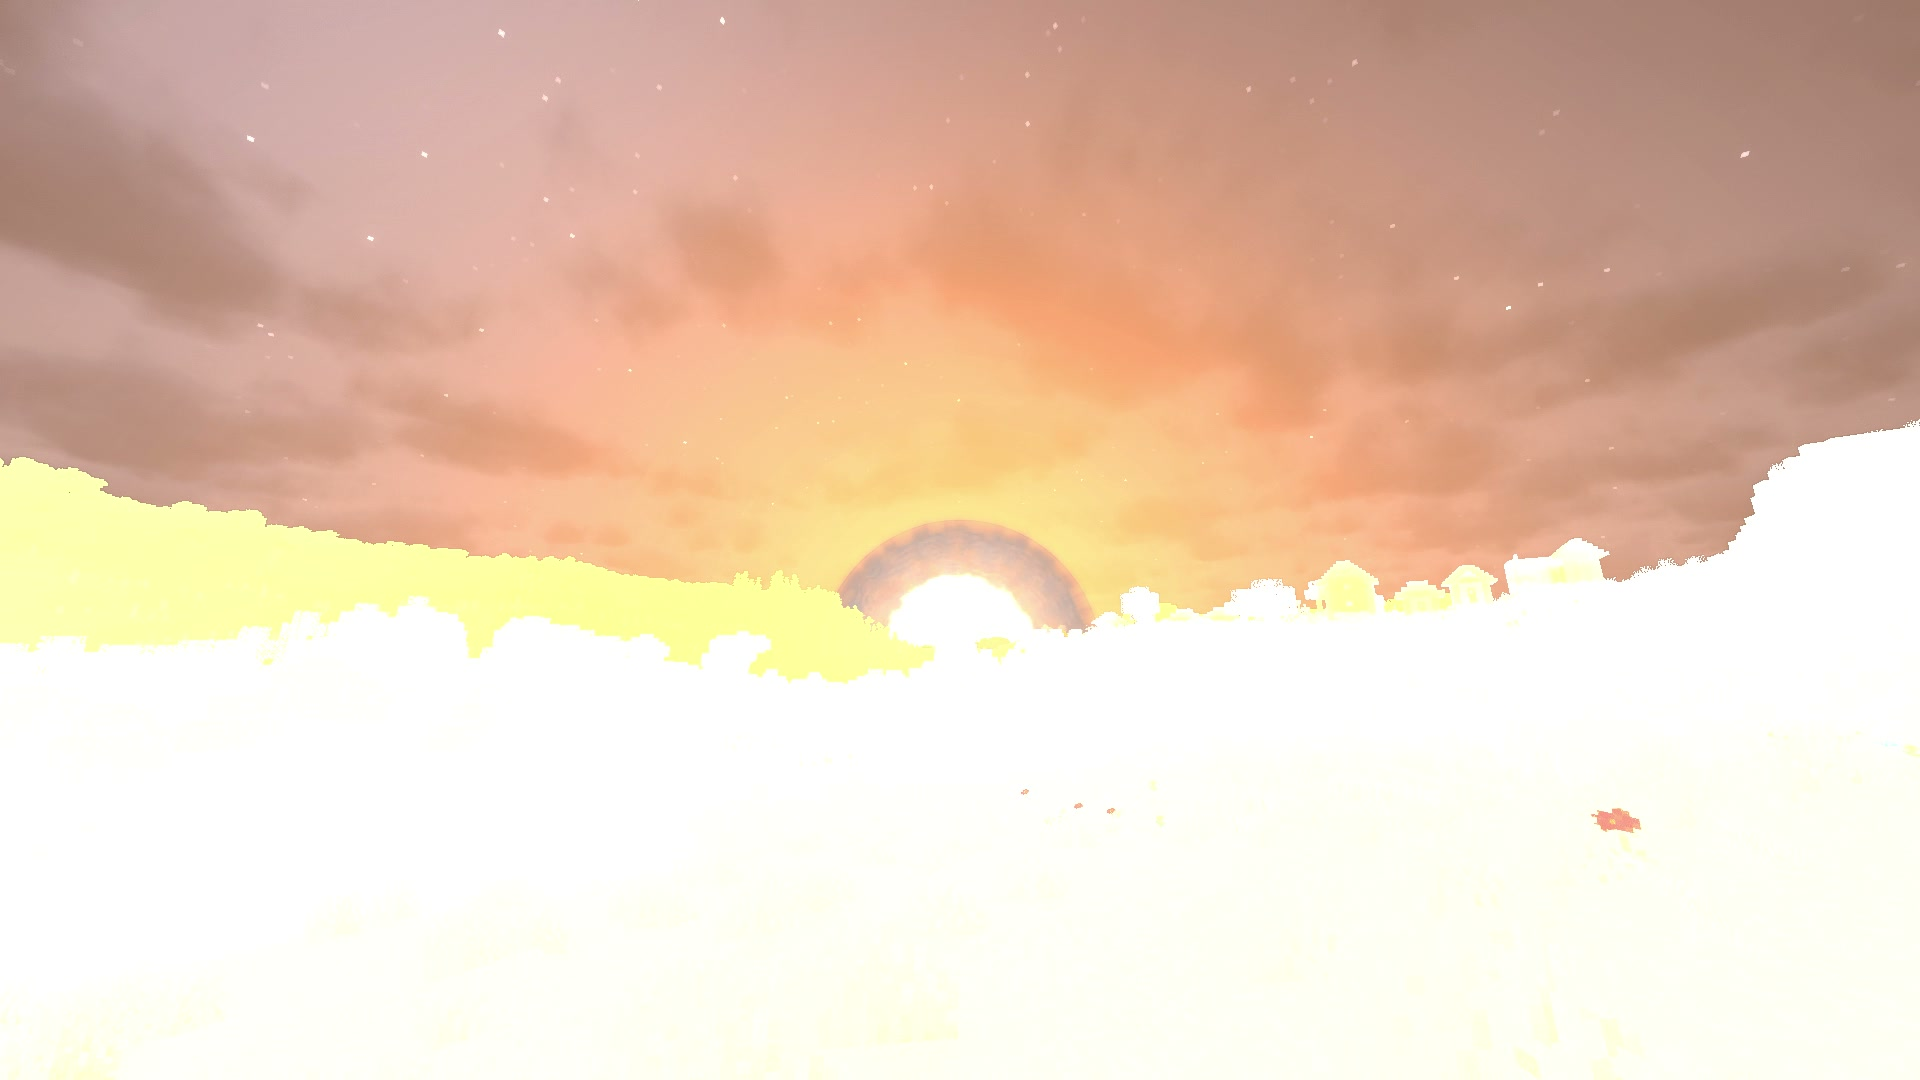
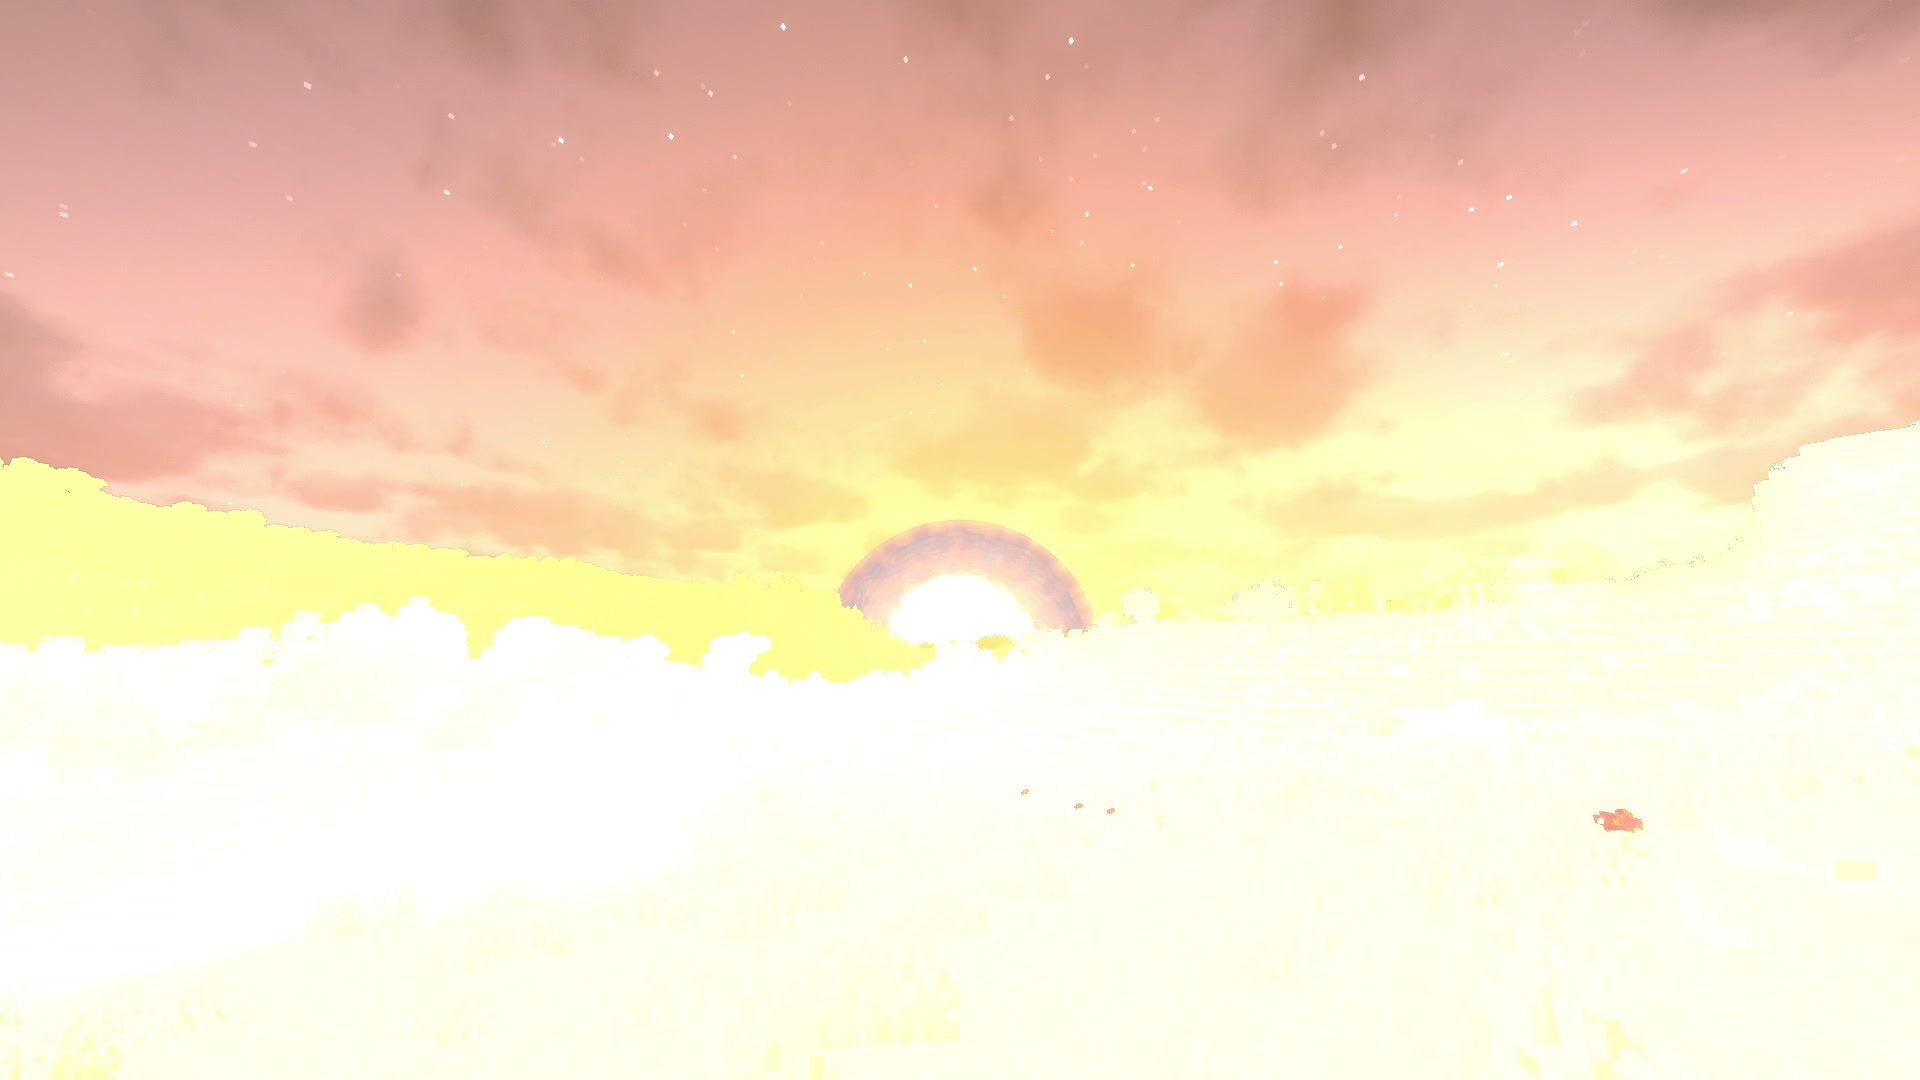
Show the nuclear page strike at twilight (#534)
Replace the nuclear page media with the selected 6 kt dusk take and matching English/Russian captions. Preserve fixed framing and natural mod effects.

diff --git a/docs/guide/ru/nuke.md b/docs/guide/ru/nuke.md
@@ -68,7 +68,7 @@
 
 ## Что будет
 
-![Вспышка наземного взрыва 6 кт в центре Newisle ночью, вид с земли](../img/nuke.jpg)
+![Вспышка наземного взрыва 6 кт в центре Newisle в сумерках, вид с земли](../img/nuke.jpg)
 
 Сирена заранее предупреждает игроков возле цели. Сначала вспышка, затем огненный шар поднимается и становится грибом.
 Волна проходит по земле, ломает здания и поднимает пыль. Звук приходит к тебе вместе с волной.
@@ -77,7 +77,7 @@
 Наземный взрыв оставляет воронку и радиоактивный след по ветру. Над водой вместо стены пыли поднимаются брызги.
 После вспышки всё ещё опасны ожоги, радиация и падающие обломки: оставайся в укрытии и следи за дозой.
 
-![Растущее облако наземного взрыва 6 кт в центре Newisle ночью, вид с земли](../img/nuke-cloud.jpg)
+![Растущее облако наземного взрыва 6 кт в центре Newisle в сумерках, вид с земли](../img/nuke-cloud.jpg)
 
 Distant Horizons и Voxy показывают разрушения, даже если ты не подходил к ним. Для МБР самая разрушенная область
 готовится ещё во время полёта; после других ядерных носителей дальний вид может обновиться позже. Выбитые окна и

diff --git a/docs/store/curseforge.ru.md b/docs/store/curseforge.ru.md
@@ -19,9 +19,9 @@ Incoming добавляет удары с воздуха со взрывами, 
 Вспышка, ударная волна, гриб, пожары и руины. Наземный взрыв оставляет воронку и радиоактивный след по ветру.
 Запускай МБР или ставь ядерную боеголовку на крылатую ракету либо бомбу B-2. По умолчанию доступны только операторам.
 
-![Наземный взрыв 6 кт ночью с неподвижной камеры у земли: вспышка, растущее облако и волна, накрывающая наблюдателя](https://raw.githubusercontent.com/zentixua/incoming/main/docs/media/nuke.webp)
+![Наземный взрыв 6 кт в сумерках с неподвижной камеры у земли: вспышка, растущее облако и волна, накрывающая наблюдателя](https://raw.githubusercontent.com/zentixua/incoming/main/docs/media/nuke.webp)
 
-![Растущее облако наземного взрыва 6 кт в центре Newisle ночью, вид с земли](https://raw.githubusercontent.com/zentixua/incoming/main/docs/guide/img/nuke-cloud.jpg)
+![Растущее облако наземного взрыва 6 кт в центре Newisle в сумерках, вид с земли](https://raw.githubusercontent.com/zentixua/incoming/main/docs/guide/img/nuke-cloud.jpg)
 
 ### Оружие
 

diff --git a/docs/store/description.ru.md b/docs/store/description.ru.md
@@ -19,9 +19,9 @@ Incoming добавляет удары с воздуха со взрывами, 
 Вспышка, ударная волна, гриб, пожары и руины. Наземный взрыв оставляет воронку и радиоактивный след по ветру.
 Запускай МБР или ставь ядерную боеголовку на крылатую ракету либо бомбу B-2. По умолчанию доступны только операторам.
 
-![Наземный взрыв 6 кт ночью с неподвижной камеры у земли: вспышка, растущее облако и волна, накрывающая наблюдателя](https://raw.githubusercontent.com/zentixua/incoming/main/docs/media/nuke.webp)
+![Наземный взрыв 6 кт в сумерках с неподвижной камеры у земли: вспышка, растущее облако и волна, накрывающая наблюдателя](https://raw.githubusercontent.com/zentixua/incoming/main/docs/media/nuke.webp)
 
-![Растущее облако наземного взрыва 6 кт в центре Newisle ночью, вид с земли](https://raw.githubusercontent.com/zentixua/incoming/main/docs/guide/img/nuke-cloud.jpg)
+![Растущее облако наземного взрыва 6 кт в центре Newisle в сумерках, вид с земли](https://raw.githubusercontent.com/zentixua/incoming/main/docs/guide/img/nuke-cloud.jpg)
 
 ### Оружие
 

diff --git a/docs/store/listing.md b/docs/store/listing.md
@@ -69,7 +69,7 @@ upload list records the terrain/recipe/craft integrations above.
 
 The Modrinth icon is `docs/media/icon.png` (512×512); the CurseForge avatar is `docs/media/icon-400.png` (400×400 PNG).
 The first screen uses the factory-strike animation (`docs/media/hero.webp`), a tagline and a three-sentence introduction.
-The effect and nuclear sections lead, followed by weapons and controls. A factory approach and impact, and a 6 kt night ground burst illustrate the effects.
+The effect and nuclear sections lead, followed by weapons and controls. A factory approach and impact, and a 6 kt ground burst at dusk illustrate the effects.
 Each refreshed animation is below 5 MB. Extra weapon screenshots are in the Gallery.
 There is no verified finished video URL, so the description has no video section or video placeholder.
 
@@ -78,7 +78,7 @@ The draft Modrinth gallery is in `modrinth.json`, in this order: four animations
 | File | Title | Description |
 |---|---|---|
 | `docs/media/hero.webp` | Factory strike (featured) | Cruise missiles fly in over the camera and hit a factory. |
-| `docs/media/nuke.webp` | Nuclear strike | Flash, mushroom cloud and the blast wave at night. |
+| `docs/media/nuke.webp` | Nuclear strike | Flash, mushroom cloud and the blast wave at dusk. |
 | `docs/guide/img/sam.webp` | Air defense | A SAM site shoots down a drone raid. |
 | `docs/guide/img/launcher.webp` | Missile launch | Cruise missiles take off from a runway. |
 | `docs/guide/img/weapon-shahed.jpg` | Shahed-136 | A drone on its way to the target. |

diff --git a/README.ru.md b/README.ru.md
@@ -21,9 +21,9 @@ Incoming добавляет удары с воздуха со взрывами, 
 Вспышка, ударная волна, гриб, пожары и руины. Наземный взрыв оставляет воронку и радиоактивный след по ветру.
 Запускай МБР или ставь ядерную боеголовку на крылатую ракету либо бомбу B-2. По умолчанию доступны только операторам.
 
-![Наземный взрыв 6 кт ночью с неподвижной камеры у земли: вспышка, растущее облако и волна, накрывающая наблюдателя](docs/media/nuke.webp)
+![Наземный взрыв 6 кт в сумерках с неподвижной камеры у земли: вспышка, растущее облако и волна, накрывающая наблюдателя](docs/media/nuke.webp)
 
-![Растущее облако наземного взрыва 6 кт в центре Newisle ночью, вид с земли](docs/guide/img/nuke-cloud.jpg)
+![Растущее облако наземного взрыва 6 кт в центре Newisle в сумерках, вид с земли](docs/guide/img/nuke-cloud.jpg)
 
 ### Оружие
 

diff --git a/docs/guide/nuke.md b/docs/guide/nuke.md
@@ -73,7 +73,7 @@ A Geiger Counter in hand clicks and shows your dose. Operators give it out.
 
 ## What happens
 
-![Flash of a 6 kt ground burst in downtown Newisle at night, seen from ground level](img/nuke.jpg)
+![Flash of a 6 kt ground burst in downtown Newisle at dusk, seen from ground level](img/nuke.jpg)
 
 The siren warns players near the target. The flash comes first; the fireball rises into a mushroom cloud.
 Then the wave reaches the ground around it, breaking buildings and throwing up dust. The sound reaches you with the wave.
@@ -82,7 +82,7 @@ Fires and thick dust can make the area hard to see through long after the strike
 A ground burst leaves a crater and radioactive fallout downwind. Over water, spray takes the place of the dust wall.
 Burns, radiation and falling debris can still hurt you after the flash, so stay under cover and watch your dose.
 
-![Rising cloud from a 6 kt ground burst in downtown Newisle at night, seen from ground level](img/nuke-cloud.jpg)
+![Rising cloud from a 6 kt ground burst in downtown Newisle at dusk, seen from ground level](img/nuke-cloud.jpg)
 
 Distant Horizons and Voxy can show ruins without you visiting them. ICBM strikes prepare the hardest-hit area during
 flight; other nuclear carriers can take longer to update the distant view. Broken windows and fallen trees farther

diff --git a/docs/store/curseforge.md b/docs/store/curseforge.md
@@ -19,9 +19,9 @@ It includes six weapons, air defense and sirens, with a designator for choosing 
 Flash, blast wave, mushroom cloud, fires and ruins. Ground bursts leave a crater and fallout downwind.
 Launch an ICBM or fit a nuclear warhead to a cruise missile or B-2 bomb. Operator-only by default.
 
-![A 6 kt ground burst at night, seen from a fixed ground camera: flash, rising cloud and the wave reaching the observer](https://raw.githubusercontent.com/zentixua/incoming/main/docs/media/nuke.webp)
+![A 6 kt ground burst at dusk, seen from a fixed ground camera: flash, rising cloud and the wave reaching the observer](https://raw.githubusercontent.com/zentixua/incoming/main/docs/media/nuke.webp)
 
-![Rising cloud from a 6 kt ground burst in downtown Newisle at night, seen from ground level](https://raw.githubusercontent.com/zentixua/incoming/main/docs/guide/img/nuke-cloud.jpg)
+![Rising cloud from a 6 kt ground burst in downtown Newisle at dusk, seen from ground level](https://raw.githubusercontent.com/zentixua/incoming/main/docs/guide/img/nuke-cloud.jpg)
 
 ### Weapons
 

diff --git a/docs/store/description.md b/docs/store/description.md
@@ -19,9 +19,9 @@ It includes six weapons, air defense and sirens, with a designator for choosing 
 Flash, blast wave, mushroom cloud, fires and ruins. Ground bursts leave a crater and fallout downwind.
 Launch an ICBM or fit a nuclear warhead to a cruise missile or B-2 bomb. Operator-only by default.
 
-![A 6 kt ground burst at night, seen from a fixed ground camera: flash, rising cloud and the wave reaching the observer](https://raw.githubusercontent.com/zentixua/incoming/main/docs/media/nuke.webp)
+![A 6 kt ground burst at dusk, seen from a fixed ground camera: flash, rising cloud and the wave reaching the observer](https://raw.githubusercontent.com/zentixua/incoming/main/docs/media/nuke.webp)
 
-![Rising cloud from a 6 kt ground burst in downtown Newisle at night, seen from ground level](https://raw.githubusercontent.com/zentixua/incoming/main/docs/guide/img/nuke-cloud.jpg)
+![Rising cloud from a 6 kt ground burst in downtown Newisle at dusk, seen from ground level](https://raw.githubusercontent.com/zentixua/incoming/main/docs/guide/img/nuke-cloud.jpg)
 
 ### Weapons
 

diff --git a/README.md b/README.md
@@ -21,9 +21,9 @@ It includes six weapons, air defense and sirens, with a designator for choosing 
 Flash, blast wave, mushroom cloud, fires and ruins. Ground bursts leave a crater and fallout downwind.
 Launch an ICBM or fit a nuclear warhead to a cruise missile or B-2 bomb. Operator-only by default.
 
-![A 6 kt ground burst at night, seen from a fixed ground camera: flash, rising cloud and the wave reaching the observer](docs/media/nuke.webp)
+![A 6 kt ground burst at dusk, seen from a fixed ground camera: flash, rising cloud and the wave reaching the observer](docs/media/nuke.webp)
 
-![Rising cloud from a 6 kt ground burst in downtown Newisle at night, seen from ground level](docs/guide/img/nuke-cloud.jpg)
+![Rising cloud from a 6 kt ground burst in downtown Newisle at dusk, seen from ground level](docs/guide/img/nuke-cloud.jpg)
 
 ### Weapons
 
